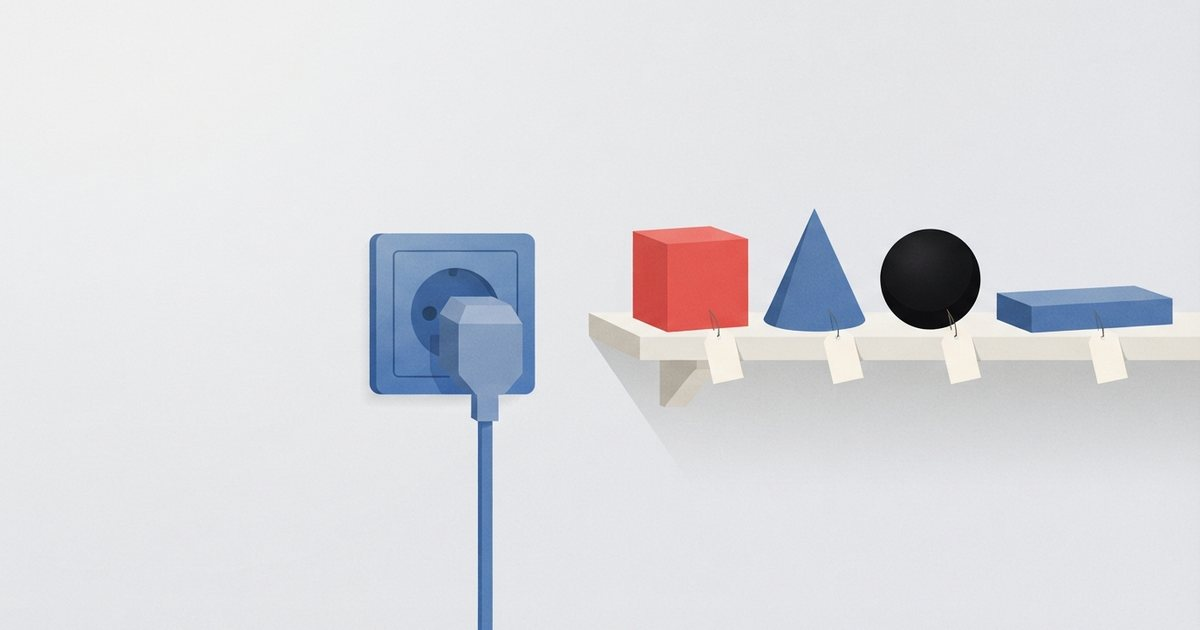
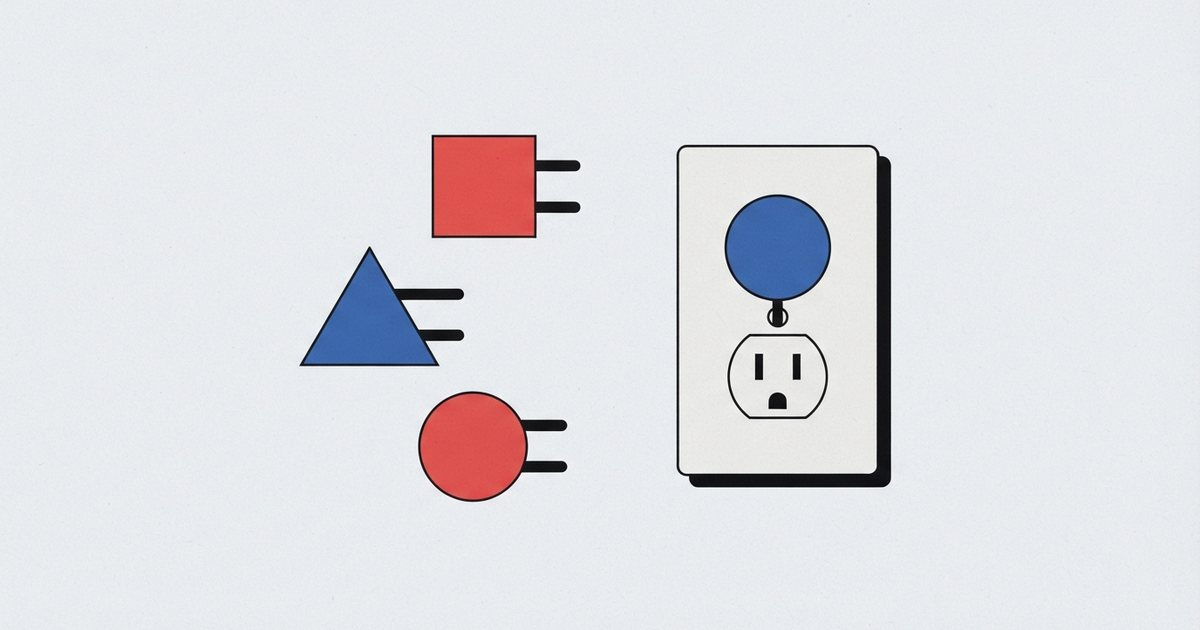
Publish: What is an MCP server, and when you don't need one

Changed region(s): [[0.4933, 0.2111, 1.0, 0.7841], [0.2467, 0.2111, 0.4933, 1.0]]

diff --git a/_posts/2026-11-04-what-is-an-mcp-server-and-when-you-dont-need-one.md b/_posts/2026-11-04-what-is-an-mcp-server-and-when-you-dont-need-one.md
@@ -1,0 +1,84 @@
+---
+layout: post
+title: "What is an MCP server, and when you don't need one"
+date: 2026-11-04 08:15:00 -0500
+author: "Amy Loomis"
+categories: "AI Technology"
+tags:
+  - MCP
+  - AI agents
+  - Integration
+excerpt: "An MCP server lets a model discover and call your tools. If your own code makes the call, you may not need one."
+description: "What an MCP server is, what it adds over a plain API, and the questions that tell you whether your project needs one at all."
+keywords: "what is an MCP server, MCP vs API, when to use MCP, MCP server explained, Model Context Protocol"
+featured_image: "/assets/img/posts/2026-11-04-what-is-an-mcp-server.jpg"
+---
+
+# What is an MCP server, and when you don't need one
+
+An MCP server is a program that tells an AI application what it can do and then does it on request. It publishes a list of tools, each with a name, a plain-language description and a schema for its inputs, so a model can pick one and call it without anyone writing glue code for that pairing. MCP stands for Model Context Protocol, and the protocol is the standard way to have that conversation.
+
+That is the whole idea. Here is the part that gets lost: the standard covers the conversation, not what is said in it. If the thing calling your system is code you wrote, one that always makes the same three calls in the same order, you do not need an MCP server. You need an API call.
+
+## What is an MCP server, in plain words?
+
+Three roles, and the spec names them. The **host** is the AI application the person is using. The host creates one **client** for each server it connects to, and each client keeps a dedicated connection to its **server**. The server, in the spec's words, is "a program that provides context to MCP clients."
+
+Servers can offer three kinds of thing. Tools are functions the model can invoke, like querying a database. Resources are data it can read, like a schema or a file. Prompts are reusable templates. Most of the conversation about MCP is really about tools, so I will stay there.
+
+Where the server runs is a separate question. A local server talks to the host over standard input and output on the same machine. A remote server talks over HTTP and can serve many clients. Same protocol, very different risk, which is a topic for [the last MCP post I wrote](/blog/2026/10/07/mcp-servers-in-production-what-breaks-first/).
+
+## What does MCP add over a normal API?
+
+Two things, and both only matter when the caller is a model.
+
+**Discovery at runtime.** A client sends `tools/list` and gets back every tool with its description and input schema. The model reads those descriptions and decides which to use. Nobody had to hard-code "when the user asks about invoices, call this endpoint." The spec calls tools "model-controlled," meaning the model can discover and invoke them based on the conversation. A server can also say its list has changed, and the client asks again.
+
+**Reuse across hosts.** The project's own introduction calls it "build once and integrate everywhere." If three different AI applications in your company need the same ticketing system, one server serves all of them, rather than three custom integrations.
+
+Now what it does not add. It does not make the tool safe: the spec lists what servers must do, such as validate inputs and rate limit calls, and says plainly that these are the server's job. It does not make the model choose well. And it does not say anything about how the host uses the model. The architecture page states that MCP "does not dictate how AI applications use LLMs or manage the provided context."
+
+The project describes MCP as a USB-C port for AI applications. I like the picture and want to push on it. A USB-C port tells you the plug fits. It says nothing about what you plugged in.
+
+## When don't you need an MCP server?
+
+My position, and it is a position: more teams are building servers than need them. Here are the cases where I would skip it.
+
+**The workflow is fixed.** Picture a nightly job that pulls yesterday's orders, checks them against a rule set and writes a summary. Your code decides every step. The model, if there is one, only writes the summary. Discovery has nothing to discover, because the list of tools never changes and the model never chooses. Call the order system's API directly and hand the model the data.
+
+**One app, one integration, and you own both ends.** If you control the application and the system it calls, a function the model can call, defined in your own code, does the same job with less to run and less to secure. A server is a second program with its own deployment, credentials and logs.
+
+**The tool you would expose is "run anything."** A single tool that accepts a free-text query or shell command is not an integration, it is a hole with a protocol around it. Fix the tool before you wrap it.
+
+## When does an MCP server earn its place?
+
+When the caller really is a model deciding at runtime, and at least one of these is true.
+
+Many tools, owned by different teams, and a model that has to pick among them. Picture an internal catalog where finance, support and operations each publish their own tools and any AI application in the company can use them. That is the shape MCP was built for.
+
+More than one host needs the same capability. This is the "build once" case, and it is the strongest argument.
+
+The set of tools changes depending on who is asking or what state the system is in. The listing mechanism handles that without a redeploy of every client.
+
+Even then, there is a cost people forget. Every tool's name, description and schema is text the model has to read before it does anything. The spec's own architecture guide mentions "progressive tool discovery" for clients that connect to many servers, rather than loading every tool up front. [Jiva](https://github.com/KarmaloopAI/Jiva), the open-source agent framework we build with, takes a similar line in its code mode: it does not load all MCP servers by default because, in its README's words, too many tools bloat the context. You opt in to the servers a task needs.
+
+## Four questions to ask before anyone builds one
+
+1. Who is the caller: your code, or a model choosing at runtime? If it is your code, stop here.
+2. Will a second application want the same tools within a year? If not, a plain function may be enough.
+3. Can you describe each tool in one sentence a model could not misread? If you cannot, the tool is too broad.
+4. Who is accountable when the model calls it wrongly? Name a person, and decide where the human approval step sits.
+
+## A note on versions
+
+The spec ships in dated versions, and it has moved. I read the tools page from the 2025-06-18 version and the architecture and base-protocol pages from 2026-07-28. The newer version is explicit that the protocol is stateless: every request carries what the server needs, and anything that spans requests has to be an identifier the client passes back. If you are evaluating an SDK or a vendor's server, ask which version it speaks. "Supports MCP" is not one answer.
+
+## Where this leaves you
+
+Most of the value in an AI agent project sits in what the tools do and who is allowed to call them, not in the plumbing between the model and the tool. MCP makes the plumbing cheaper. That is useful, and it is also the reason to be suspicious of any plan whose first milestone is "stand up an MCP server."
+
+If you are deciding what an agent should be able to touch, and which of those things deserve a server, that is the question our [AI agents service](/services/ai-agents/) is built around: agents scoped to a job function, with defined decision boundaries for what they may do alone and what needs approval, connected to your systems through their APIs.
+
+The better question was never whether you have an MCP server. It is whether you could say, in one sentence, what the model is allowed to do with it.
+
+*Sources: the Model Context Protocol [introduction](https://modelcontextprotocol.io/docs/getting-started/intro), [architecture guide](https://modelcontextprotocol.io/docs/2026-07-28/learn/architecture) and [specification](https://modelcontextprotocol.io/specification/2026-07-28/server/tools), read in full and re-checked 2026-11-04 (latest version 2026-07-28), and the Jiva README. The two examples above are hypotheticals, not client stories.*

diff --git a/_posts/2026-10-07-mcp-servers-in-production-what-breaks-first.md b/_posts/2026-10-07-mcp-servers-in-production-what-breaks-first.md
@@ -26,6 +26,8 @@ An MCP server is a small program that exposes tools, data and prompts to an AI m
 
 I haven't run a fleet of MCP servers for a client, and I won't pretend to. What follows is built from the protocol's own specification and security guidance, plus how [Jiva](https://github.com/KarmaloopAI/Jiva), the open-source agent framework we build with, handles the same problems. The ordering, what breaks *first*, is my opinion. The failure modes themselves are documented.
 
+New to MCP? Start with [what an MCP server is, and when you don't need one](/blog/2026/11/04/what-is-an-mcp-server-and-when-you-dont-need-one/).
+
 ## What breaks first when an MCP server meets real use?
 
 In my reading, the order is: the model gets buried in tools, the tools are too broad, the credentials are borrowed, the errors don't help, and nobody can say afterward who did what. Each one is a design decision made in the first week and discovered in the fourth month.
